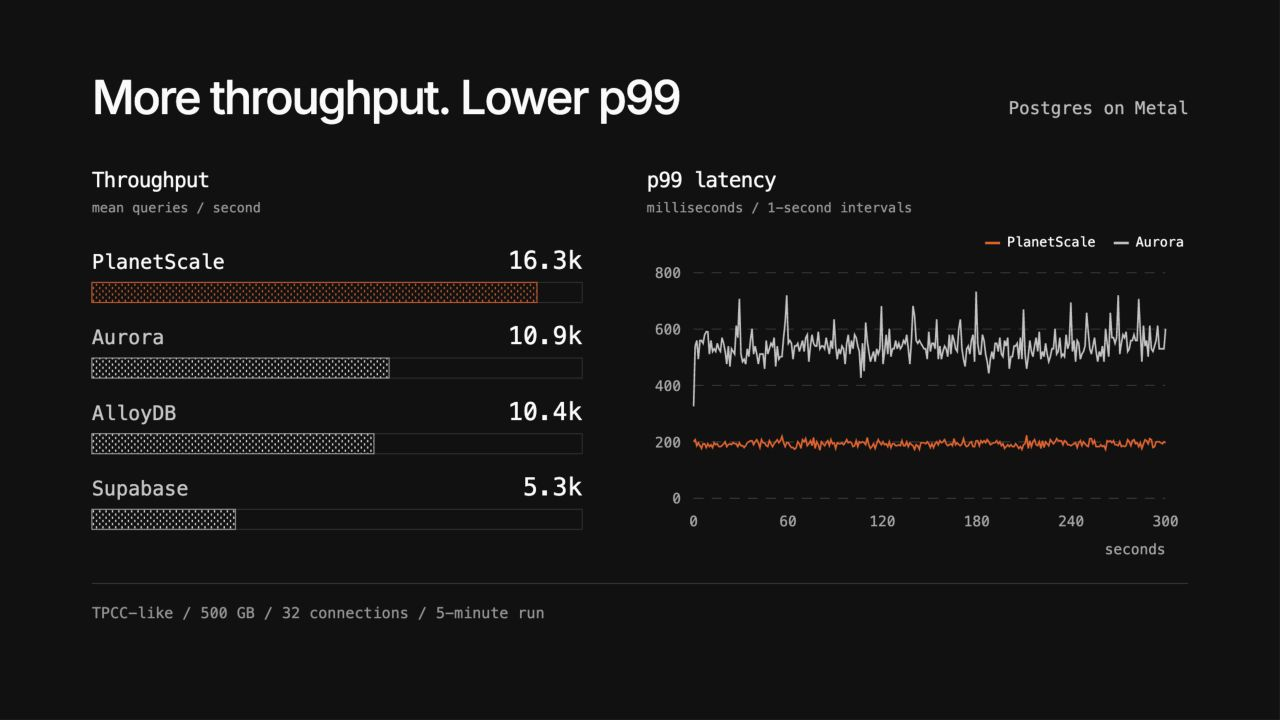
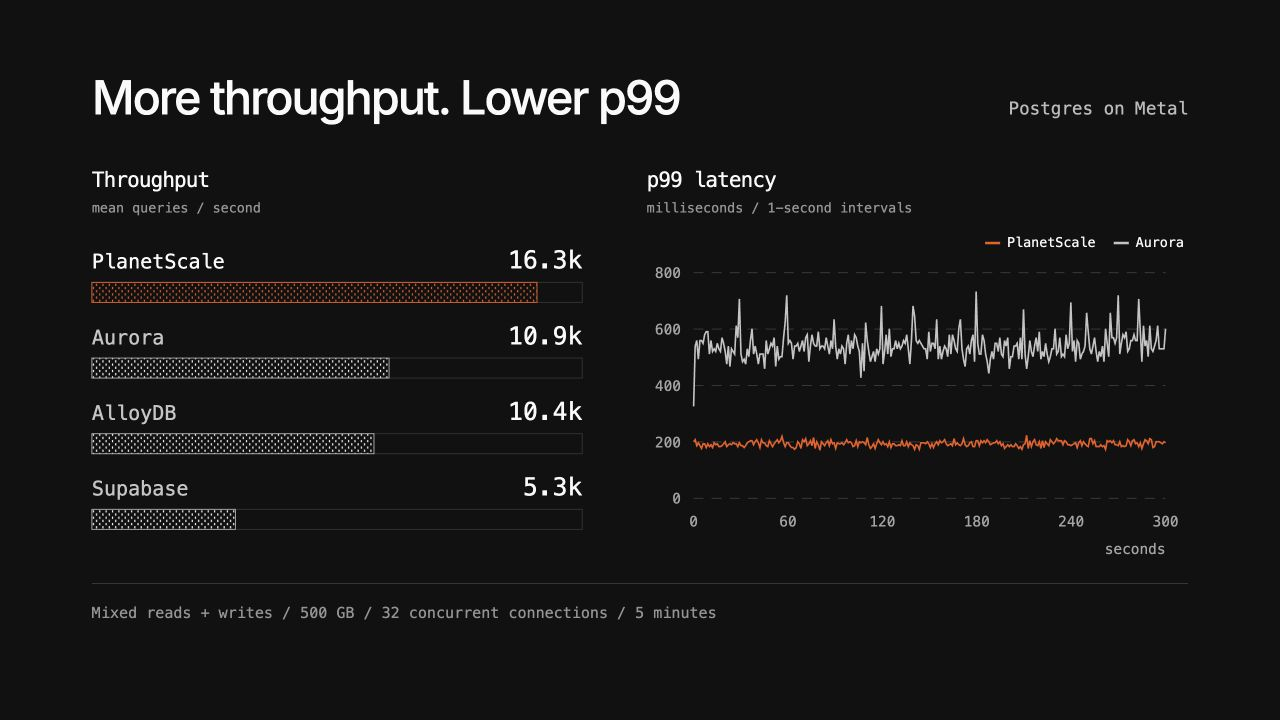
Clarify benchmark workload context

diff --git a/build_content.py b/build_content.py
@@ -174,7 +174,7 @@ slides=[
  dict(id='opening',label='PlanetScale Postgres on Metal',theme='opening',html=f'''<h1>Postgres on <span class="accent">Metal</span></h1><div class="opening-architecture">{servers}</div>''',notes="1:15. “PlanetScale brings together the database, the hardware, and the team operating it. For your workload, we are proposing fully managed Postgres on Metal, with local NVMe storage. Our platform handles database operations, and our infrastructure team works with you on migration and production.” Point to Neki briefly: “For workloads that eventually outgrow one machine, Neki is our sharded Postgres product.” This is a product overview, not a query path or an automatic upgrade flow. Do not describe replica topology or control-plane internals here; slide 3 covers the architecture. Neki is in Platform Preview and requires a separate compatibility and migration assessment. The immediate offer remains hosted Postgres on Metal. Ask: “Where is your team spending the most time with Postgres today?” Transition: “Vitalize is one Postgres team that made this move.” Sources: https://planetscale.com/metal ; https://planetscale.com/docs/neki ; https://planetscale.com/blog/benchmarking-postgres."),
  dict(id='vitalize',label='Vitalize: 2 ms p95, half the vCPUs',theme='vitalize',html=f'''<h2>Vitalize: <span class="accent">2 ms p95</span></h2><div class="customer-story"><span>Hospital staffing software</span><span>400 GB / 150 million rows</span></div><div class="customer-move"><span>Supabase</span><span class="move-line"></span><strong>PlanetScale Metal</strong></div><div class="vitalize-charts"><div>{vitalize_latency}</div><div>{vitalize_compute}</div></div>''',notes='1:45. “Vitalize runs hospital staffing software. They moved a 400 GB Postgres database with 150 million rows from Supabase to PlanetScale Metal. They report about 2 ms p95 on half the vCPUs, with the same 16 GB of RAM.” Tell the customer story before explaining the graphs: demanding database reads, the move, then the result. The latency plot is their actual PlanetScale Query Insights capture after migration, not a paired before/after percentile. No comparable Supabase p95 is published. The 200 GB JSONB-heavy table comparison separately reports 50-second average reads before and 1.2-second maximum reads after; do not calculate a speedup from unlike statistics. The cutover included taking the app offline. These are customer-reported outcomes, not a guarantee. Transition: “Here is the platform operating that database.” Source: https://vitalize.care/blog/from-supabase-to-planetscale . Other cases and suitable alternatives: docs/customer-case-studies.md.'),
  dict(id='availability',label='Postgres Cluster Architecture',theme='availability',html=f'''<div class="title-with-stat"><h2>Postgres Cluster Architecture</h2><div class="sla"><strong>99.99<span>%</span></strong><p>single-region HA SLA</p></div></div><div class="ha-diagram">{ha}</div>''',notes="2:00. “This is one highly available Postgres cluster: three database nodes, each in a different availability zone within the same region. One node is primary; the other two are replicas.” A node (also called an instance in PlanetScale documentation) is an individual database server. An availability zone is the cloud location and failure boundary hosting that node. The whole deployment is a cluster, not one node. A, B, and C are schematic zone labels, not literal provider zone IDs. This depicts the standard three-node HA configuration; additional replicas are possible. Trace application connections, then replication, then operations. The two connection boxes are logical routing choices, not a claim of separate DNS endpoints. Replica reads are explicitly selected with a replica credential/username suffix on direct port 5432; reads must tolerate replication lag. Default PgBouncer connections on 6432 route to the primary; dedicated replica PgBouncers are a separate option. Semi-synchronous replication requires durable confirmation from at least one replica before commit success is returned. PlanetScale's custom Kubernetes operator manages the cluster's provisioning, health, failover, resizing, and upgrades; it is outside the SQL query path. Failovers can interrupt connections, so applications need retries. The 99.99% figure is the single-region monthly uptime commitment under the applicable SLA; it excludes single-node clusters and beta features. Hosted Postgres on Metal remains the offer. Transition: “Local NVMe is the hardware foundation. Let's look at its performance under load.” Verified 2026-09-27. Sources: https://planetscale.com/docs/postgres/postgres-architecture ; https://planetscale.com/docs/postgres/operations-philosophy ; https://planetscale.com/docs/postgres/scaling/replicas ; https://planetscale.com/legal/planetscale-service-level-agreement . Durable terminology: docs/postgres-architecture.md."),
- dict(id='metal',label='Postgres on Metal: throughput and p99',theme='metal',html=f'''<div class="metal-heading"><h2>More throughput. Lower p99</h2><p class="metal-line">Postgres on Metal</p></div><div class="benchmark-grid"><div><h3>Throughput <span>mean queries / second</span></h3>{bars}</div><div><h3>p99 latency <span>milliseconds / 1-second intervals</span></h3><div class="chart-legend"><span class="ps-dot">PlanetScale</span><span class="aurora-dot">Aurora</span></div>{latency}</div></div><p class="workload">TPCC-like / 500 GB / 32 connections / 5-minute run</p>''',notes="1:45. “In this mixed read/write benchmark, Postgres on Metal delivers more throughput and lower p99 than these tested configurations. We can evaluate the same questions against your application.” Left: arithmetic mean QPS across 300 one-second samples with 32 concurrent connections: PlanetScale 16,338.6276; Aurora 10,908.9315; AlloyDB 10,355.0109; Supabase 5,270.2068. Right: one-second interval p99 samples from the same TPCC-like benchmark, not an aggregate run-wide percentile. PlanetScale ranges 170.48–223.34 ms; Aurora 325.98–733 ms. Higher QPS and lower p99 are distinct findings. PlanetScale M-320 has 4 vCPU, 32 GB RAM, and 937 GB local NVMe; Aurora and AlloyDB use 4 vCPU/32 GB; Supabase uses 8 vCPU/32 GB and 12k IOPS. Clients run in each provider's cloud region; AlloyDB uses GCP, the others AWS. Work is sent to the primary, not summed across replicas. These are vendor-run synthetic results with different hardware and infrastructure, not isolated proof that NVMe causes every difference. The site's rounded ~18k headline spans other runs; this deck deliberately uses a single concurrency and exact samples. A separate read-only test has roughly equal average throughput for Aurora and PlanetScale, so do not claim every workload is faster by this ratio. Ask: “Which workload would we need to reproduce for this to matter to you?” Validate p95/p99, throughput, errors, and resource use in discovery. Transition: “When one machine becomes the constraint, Neki extends the architecture across Postgres shards.” Sources: https://planetscale.com/benchmarks ; https://planetscale.com/benchmarks/aurora ; https://planetscale.com/benchmarks/alloydb ; https://planetscale.com/benchmarks/supabase . Data definitions: docs/postgres-metal-benchmarks.md."),
+ dict(id='metal',label='Postgres on Metal: throughput and p99',theme='metal',html=f'''<div class="metal-heading"><h2>More throughput. Lower p99</h2><p class="metal-line">Postgres on Metal</p></div><div class="benchmark-grid"><div><h3>Throughput <span>mean queries / second</span></h3>{bars}</div><div><h3>p99 latency <span>milliseconds / 1-second intervals</span></h3><div class="chart-legend"><span class="ps-dot">PlanetScale</span><span class="aurora-dot">Aurora</span></div>{latency}</div></div><p class="workload">Mixed reads + writes / 500 GB / 32 concurrent connections / 5 minutes</p>''',notes="1:45. “In this mixed read/write benchmark, Postgres on Metal delivers more throughput and lower p99 than these tested configurations. We can evaluate the same questions against your application.” Left: arithmetic mean QPS across 300 one-second samples with 32 concurrent connections: PlanetScale 16,338.6276; Aurora 10,908.9315; AlloyDB 10,355.0109; Supabase 5,270.2068. Right: one-second interval p99 samples from the same TPCC-like benchmark, not an aggregate run-wide percentile. PlanetScale ranges 170.48–223.34 ms; Aurora 325.98–733 ms. Higher QPS and lower p99 are distinct findings. PlanetScale M-320 has 4 vCPU, 32 GB RAM, and 937 GB local NVMe; Aurora and AlloyDB use 4 vCPU/32 GB; Supabase uses 8 vCPU/32 GB and 12k IOPS. Clients run in each provider's cloud region; AlloyDB uses GCP, the others AWS. Work is sent to the primary, not summed across replicas. These are vendor-run synthetic results with different hardware and infrastructure, not isolated proof that NVMe causes every difference. The site's rounded ~18k headline spans other runs; this deck deliberately uses a single concurrency and exact samples. A separate read-only test has roughly equal average throughput for Aurora and PlanetScale, so do not claim every workload is faster by this ratio. Ask: “Which workload would we need to reproduce for this to matter to you?” Validate p95/p99, throughput, errors, and resource use in discovery. Transition: “When one machine becomes the constraint, Neki extends the architecture across Postgres shards.” Sources: https://planetscale.com/benchmarks ; https://planetscale.com/benchmarks/aurora ; https://planetscale.com/benchmarks/alloydb ; https://planetscale.com/benchmarks/supabase . Data definitions: docs/postgres-metal-benchmarks.md."),
  dict(id='neki',label='Neki: Horizontal Scaling for Postgres',theme='neki',html=f'''<div class="neki-heading"><h2>Neki: Horizontal Scaling for Postgres</h2><div class="neki-lockup"><img src="assets/neki-cat.svg" alt="Neki"></div></div><div class="neki-topology">{neki}</div>''',notes="1:15. “Neki is our sharded Postgres architecture. Every shard is real Postgres, with routing and operations managed as one database.” Walk from the application to the router, then one shard group, then the control plane. Sidecars pool connections; shard primaries and replicas carry data. The diagram represents replicated HA shard groups, not the primary-only benchmark on the next slide. Say that Neki is available in Platform Preview as of the verified documentation on 27 September 2026; it is not covered by an SLA. The public site's “now available” wording does not mean general availability. Cross-shard transactions remain listed as coming soon. Evaluate shard keys, query/transaction compatibility and the transition from the current database with the team. Do not imply an automatic in-place conversion from ordinary PlanetScale Postgres. The immediate sale remains hosted Postgres on Metal. Transition: “The benchmark demonstrates how far this architecture can scale for a defined workload.” Sources: https://neki.dev/ ; https://planetscale.com/docs/neki ; https://planetscale.com/blog/the-architecture-of-neki ."),
  dict(id='neki-scale',label='Neki: 118.5M queries per second',theme='neki neki-scale',html=f'''<div class="neki-heading"><h2><span class="yellow">118.5M</span> queries / second</h2><span class="neki-wordmark">[ NEKI ]</span></div><div class="scale-layout"><div><div class="scale-chart">{scale}</div><p class="neki-workload">Read-only point selects / Primary-only shards</p></div><div class="scale-metrics"><div><strong>1.22 <span>PiB</span></strong><p>data</p></div><div><strong>512</strong><p>shards</p></div><div><strong>6.06 <span>ms</span></strong><p>router p99</p></div></div></div>''',notes="1:00. “The published Neki run sustained 118.5 million queries per second across 512 shards over a 1.22 PiB dataset.” Follow the 5-, 50-, and 512-shard series and stop. Exact QPS: 999,624; 9,923,900; 118,538,803. Both axes are logarithmic. Workload: read-only, one-row primary-key point selects sent to a single shard. The measured configuration had 512 primary-only shards and 480 routers, without replicas or a failover event, for 16 minutes. It does not establish write performance or HA behavior. The 6.06 ms p99 is at the router; client p99 was 13.95 ms. These metrics do not share the TPCC workload or Vitalize workload and should not be compared on a common chart. Transition: “Convex shows how a production workload benefited from the move to PlanetScale.” Source: https://planetscale.com/blog/118-million-queries-per-second-on-neki ."),
  dict(id='convex',label='Convex migrated from Aurora to PlanetScale Postgres Metal',theme='customer-case convex',html=f'''<div class="case-heading convex-heading"><img class="convex-title-symbol" src="assets/convex-symbol-color.svg" alt=""><h2>Convex migrated from Aurora to PlanetScale Postgres Metal</h2></div><div class="convex-curves">{convex_plot}</div><div class="convex-quote"><q>p50 is the new p99.</q><span>Jamie Turner / Convex</span></div>''',notes="1:15. Convex provides backend infrastructure for developers. Its Chef product stores message histories and project snapshots in a Convex backend. The team moved that workload from AWS Aurora to PlanetScale for Postgres. Query p99 moved from a noisy 10–15 ms to a steadier 5–7 ms; batch-commit p99 had spiked between 75 and 200 ms and subsequently stayed around 20 ms. Both panels display the unchanged original customer screenshot, cropped only at the panel boundary through CSS. A CSS invert/hue-rotation filter adapts its light background to dark mode. All percentile lines, original axis values, and legends are preserved. The source chart vertical axes are in seconds; the numeric p99 summaries below are in milliseconds and use the article’s explicit reported ranges. The original query chart clips peaks above 0.02 seconds. Provider labels indicate the before/after portions around the visible step near 23:55, not a separately verified cutover timestamp. Each chart has its own vertical scale. The closing quote, “p50 is the new p99,” is Jamie Turner’s wording in the customer post. Treat it as a qualitative summary of the improvement, not a claim that every old p50 exactly equals every new p99. Preserve the approximate qualifier on 20 ms. Do not imply that all Convex workloads achieved these results, identify the prior Aurora engine without evidence, or claim a controlled hardware comparison. The article discusses Metal as the motivation but does not specify the measured cluster tier; label the destination PlanetScale for Postgres. Gong structure: infrastructure buyer's need, one named production workload, the change, and the measured outcome. Ask which tail-latency path matters most to the prospect. Source: https://news.convex.dev/powered-by-planetscale-for-postgres/ . Transition: “Autumn shows what the migration partnership can look like.”"),
